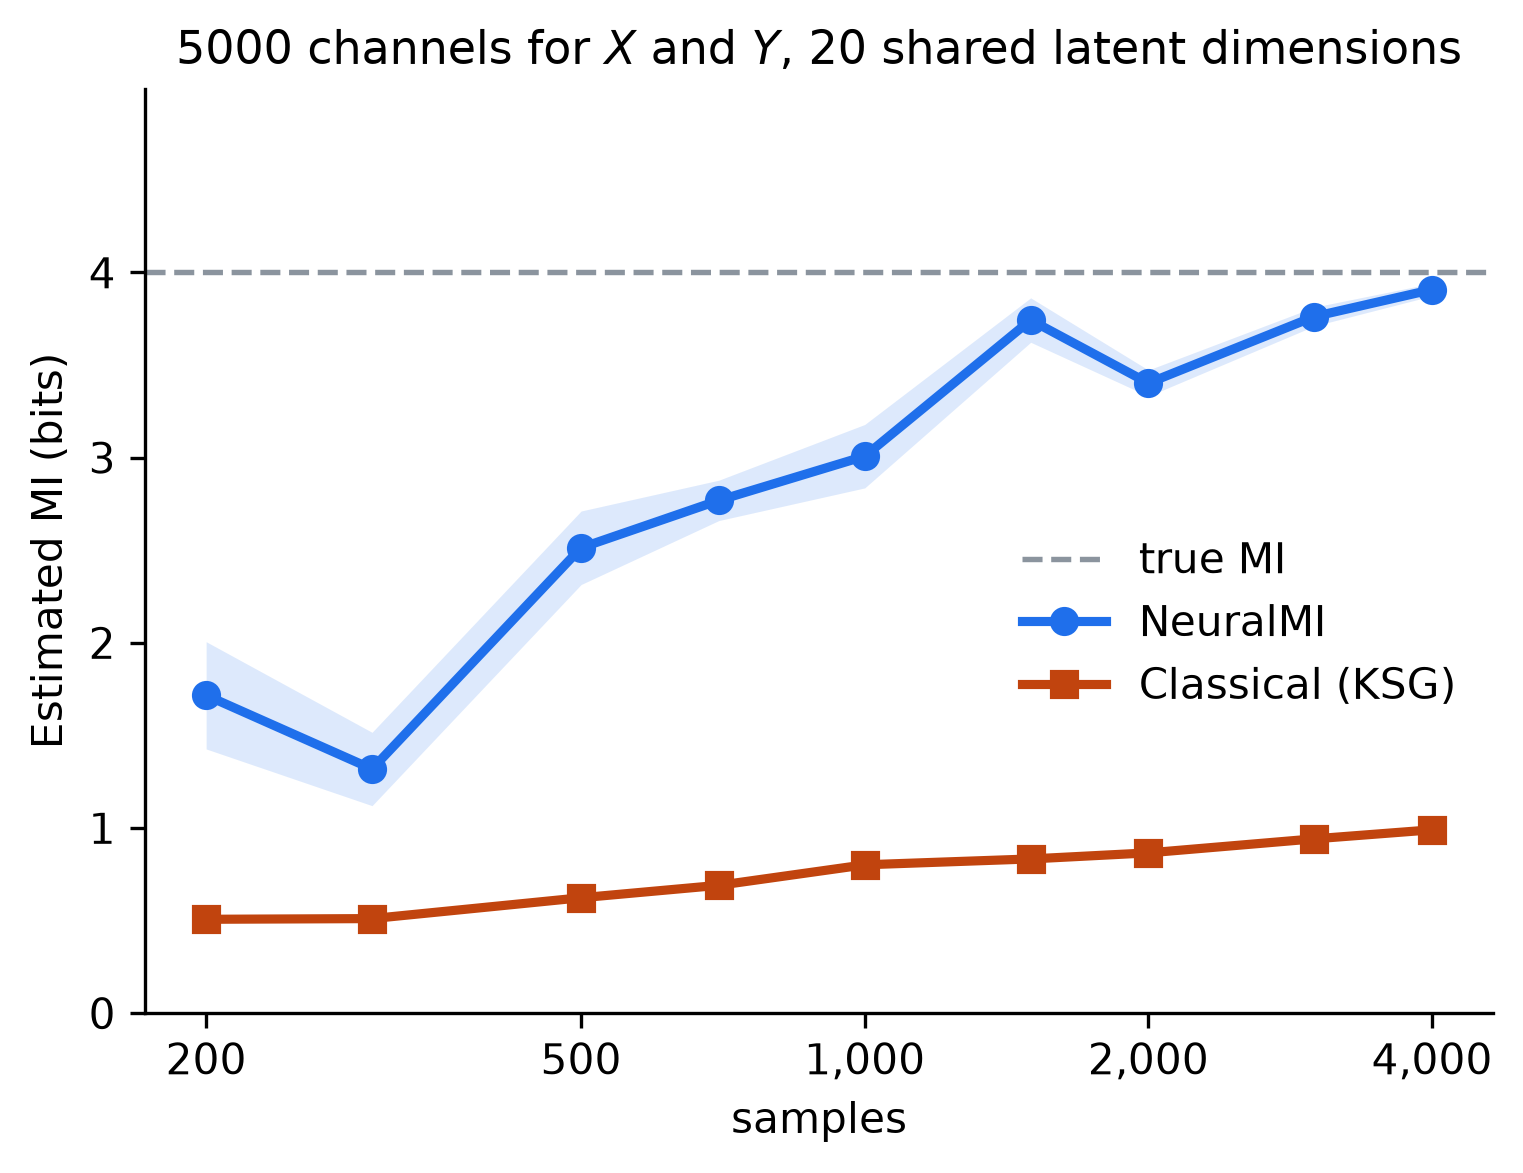
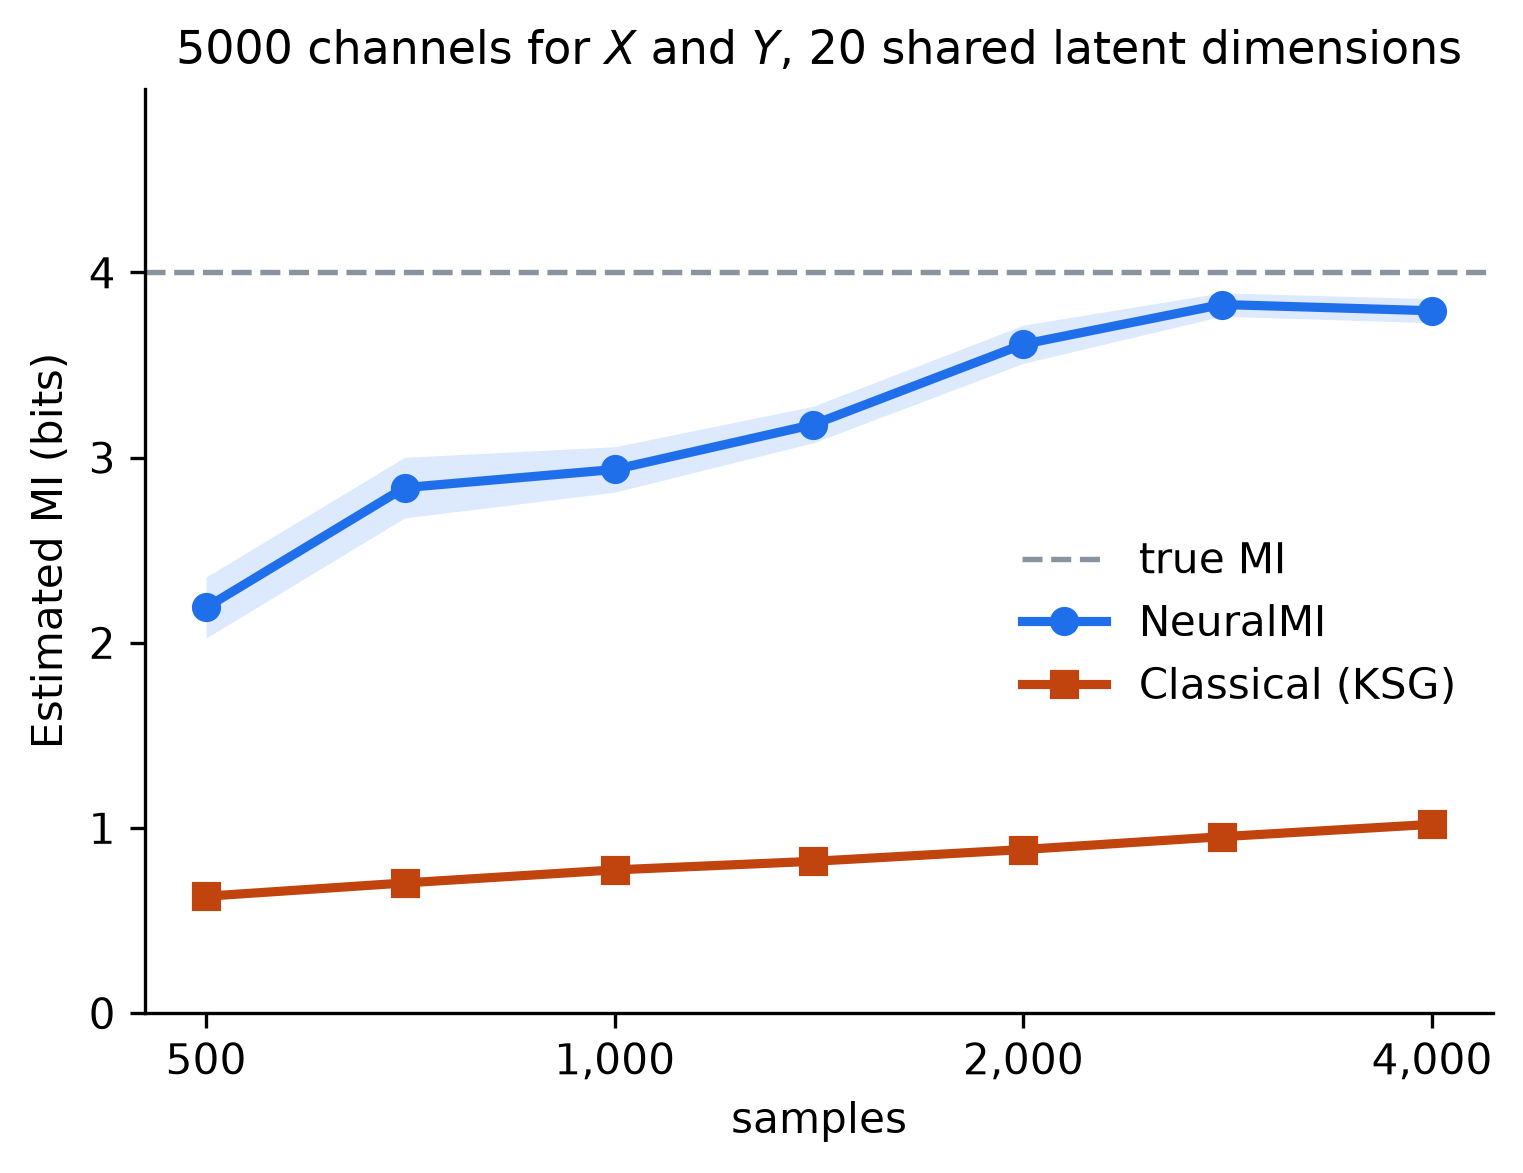
The README's sample-size figure averages over independent datasets
With one dataset per sample size, the repeats averaged only training noise,
and what those particular samples did showed as dips in the mean line. Every
point now averages NeuralMI and KSG over ten independent datasets, with the
standard error of the mean as the band, and the sweep starts at 500 samples.
The datasets run ten at once in the library's worker pool
(neural_mi.parallel.dispatch_tasks); its workers import the per-dataset
function from docs/figures/sample_sweep_draw.py.

Run here with a fresh sweep: every cell ran, the quickstart and ANATOMY
checks hold, and the other figures are unchanged. NeuralMI rises at every
step to about 95% of the truth by 2,800 samples, under the 5,000 channels;
KSG creeps along far below. The captions say "close to" the true value.

diff --git a/docs/figures/sample_sweep_draw.py b/docs/figures/sample_sweep_draw.py
@@ -1,0 +1,24 @@
+"""One dataset of the README's sample sweep (readme_figures.ipynb, section 2).
+
+The notebook estimates its datasets in parallel through the library's worker
+pool, which can only hand its workers a function they can import. A function
+defined in the notebook cannot be imported, so this one lives next to it.
+"""
+import warnings
+
+import numpy as np
+
+import neural_mi as nmi
+
+
+def one_dataset(task):
+    """NeuralMI on its defaults and KSG averaged over k = 5 and 10, in bits, on one dataset."""
+    n_samples, seed, latent_dim, observed_dim, mi = task
+    warnings.filterwarnings('ignore')
+    x, y = nmi.generators.generate_nonlinear_from_latent(
+        n_samples=n_samples, latent_dim=latent_dim, observed_dim=observed_dim, mi=mi, seed=seed)
+    x, y = np.asarray(x, dtype=np.float32), np.asarray(y, dtype=np.float32)
+    neural = nmi.run(x, y, mode='estimate', split=nmi.Split(mode='random'),
+                     seed=seed, show_progress=False).mi_estimate
+    ksg = float(np.mean([nmi.estimators.ksg_mi(x, y, k=k) for k in (5, 10)]) / np.log(2))
+    return float('nan') if neural is None else float(neural), ksg

diff --git a/README.md b/README.md
@@ -16,7 +16,7 @@ Correlation is the usual way to ask whether two signals are related or not. Howe
 
 Mutual information sees that relationship because it captures linear and nonlinear dependencies alike. It also answers questions a correlation has no form for: how much a population's past says about its own future, what one area adds about another beyond what that area already predicts of itself, or what a pair of signals carries that neither carries alone.
 
-<img src="docs/source/_static/sample_sweep.png" alt="Estimate against sample count at 5000 channels per side: NeuralMI climbs to the true 4 bits with fewer samples than channels, KSG stays far below it and barely moves" style="float: right; max-width: 50%; margin-right: 15px; margin-bottom: 10px;">
+<img src="docs/source/_static/sample_sweep.png" alt="Estimate against sample count at 5000 channels per side: NeuralMI climbs close to the true 4 bits with fewer samples than channels, KSG stays far below it and barely moves" style="float: right; max-width: 50%; margin-right: 15px; margin-bottom: 10px;">
 
 
 The obstacle to applying information-theoretic measures to large, multimodal neuroscience datasets is the curse of dimensionality. Classical estimators need samples in proportion to the dimensions they are handed. Past ~10 dimensions they outrun any recording of realistic size. Information-theoretic analysis has mostly been limited to a handful of channels for that reason.

diff --git a/CHANGELOG.md b/CHANGELOG.md
@@ -190,10 +190,13 @@ Versioning](https://semver.org/spec/v2.0.0.html).
   channels per side, read by `mode='rigorous'` with a network of its own. KSG
   climbed steadily with the samples there, as if more data would close the
   gap. The figure now shows twenty shared dimensions in five thousand channels
-  per side, read by NeuralMI on its defaults without bias correction and
-  repeated on the same data. NeuralMI climbs to the true value with fewer
-  samples than channels, and KSG stays far below it and barely moves. The
-  README and the docs' landing page describe it that way.
+  per side, read by NeuralMI on its defaults without bias correction. Every
+  point averages both estimators over independent datasets. The figures
+  notebook estimates them at once in the library's worker pool, through a
+  function in `docs/figures/sample_sweep_draw.py` that the workers import.
+  NeuralMI climbs close to the true value with fewer samples than channels. KSG
+  stays far below it and barely moves. The README and the docs' landing page
+  describe it that way.
 
 ### Removed
 

diff --git a/docs/source/index.rst b/docs/source/index.rst
@@ -17,8 +17,8 @@ arrived on.
    :width: 78%
 
 Both sides above are five thousand channels wide and share twenty latent
-dimensions carrying exactly four bits. NeuralMI climbs to the four bits with
-fewer samples than channels. KSG on the same data stays far below them and
+dimensions carrying exactly four bits. NeuralMI climbs close to the four bits
+with fewer samples than channels. KSG on the same data stays far below them and
 barely moves as the samples grow.
 
 Every analysis goes through the one function ``nmi.run()`` with a ``mode`` that
